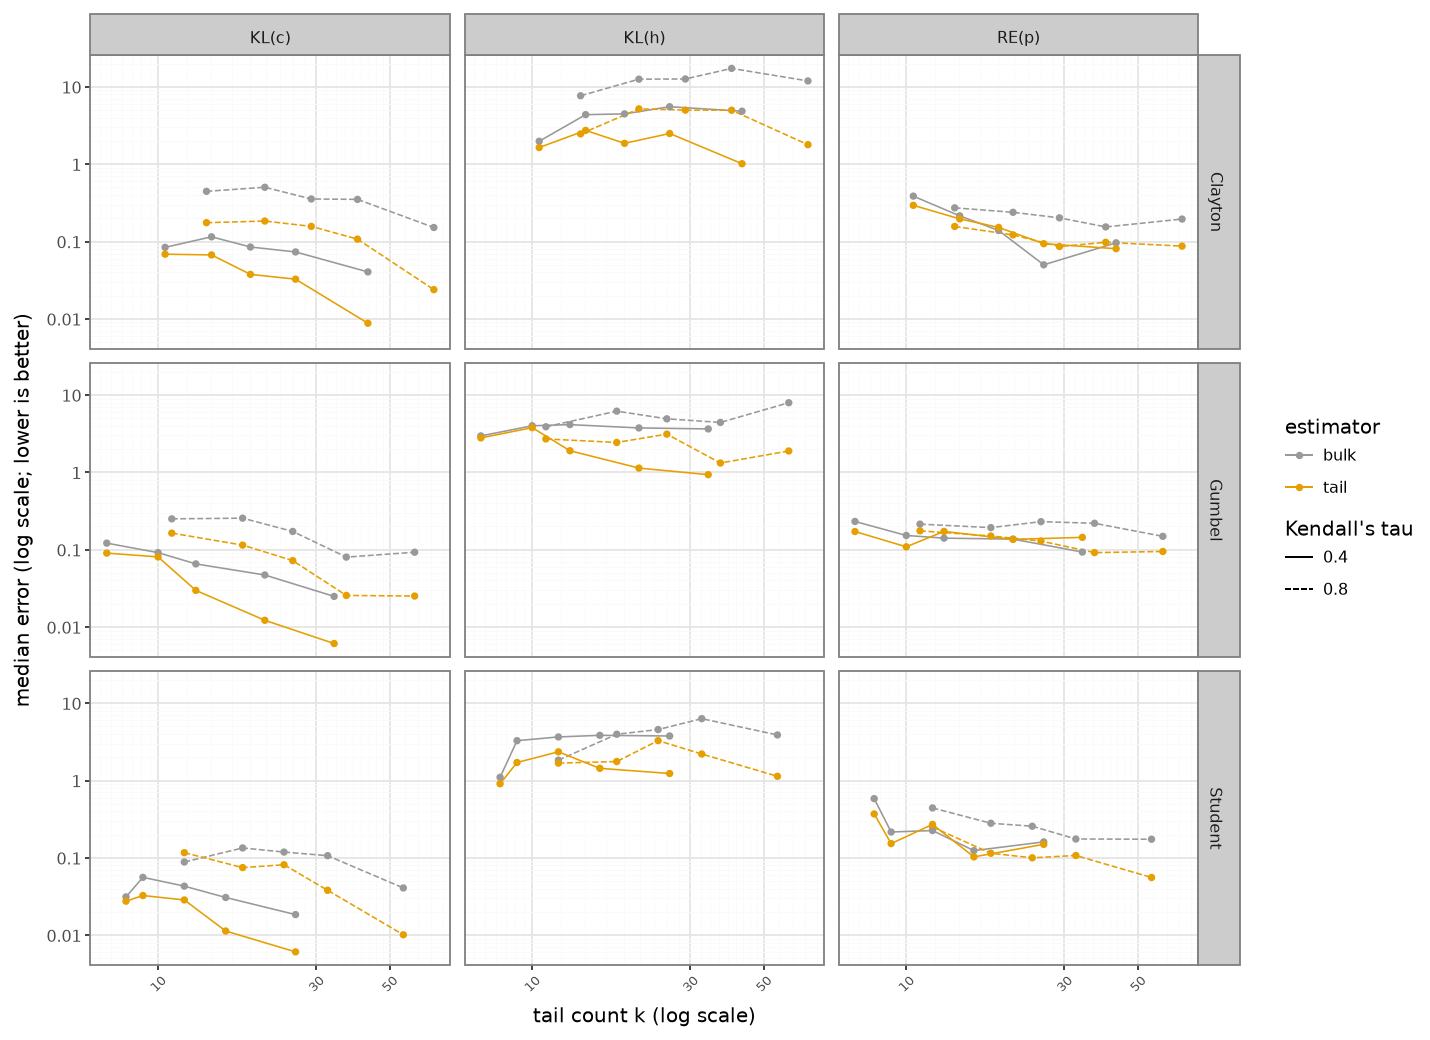
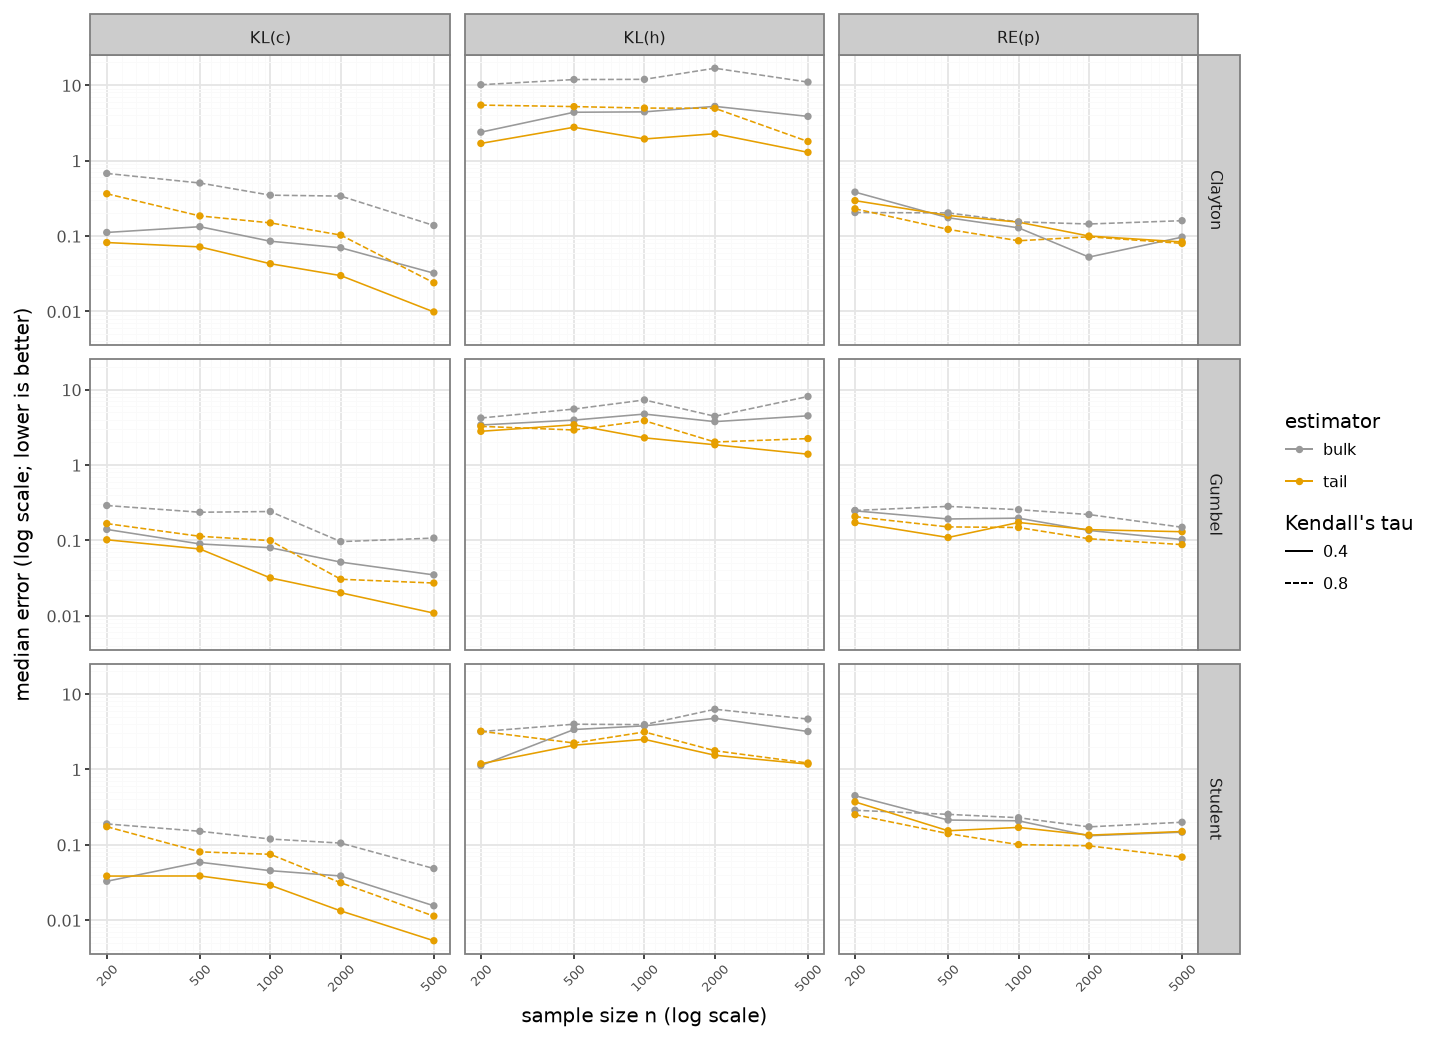
Revert figure to the n-axis; 30 replications
- examples/plot_sim_study.py: plot median error against sample size n again
  (k-framing removed); colour by estimator, line type by Kendall tau.
- examples/sim_study_biv_tail.py: 30 replications.
- latex/main.tex: figure (vs n) and prose updated; lead with the tail estimator
  beating the bulk (tail mass in 97% of cells, densities in 88%), and keep the
  explanation that improvement is slow in n because k ~ lambda*sqrt(n), so a
  k^-1/2 rate is only n^-1/4; slower-vanishing q_n left to future work.
- regenerate committed figure latex/figures/sim_study.png.

diff --git a/examples/plot_sim_study.py b/examples/plot_sim_study.py
@@ -1,11 +1,10 @@
 """Median-error line plot of the simulation-study metrics (plotnine).
 
 Reads the long-format CSV written by ``sim_study_biv_tail.py`` and draws, for the
-bulk and tail estimators, the median error of each metric against the *tail
-count* ``k`` -- the effective sample size of the tail estimator, which grows
-only like ``sqrt(n)`` under ``q_n = n^{-1/2}``. Families are the facet rows and
-metrics the facet columns; the estimator is shown by line colour and the
-dependence level (Kendall's tau) by line type. Both axes are on a log scale.
+bulk and tail estimators, the median error of each metric against the sample
+size. Families are the facet rows and metrics the facet columns; the estimator
+is shown by line colour and the dependence level (Kendall's tau) by line type,
+so all dimensions sit in one figure. Both axes are on a log scale.
 
 Run (``plotnine`` lives in the ``interactive`` extra)::
 
@@ -31,6 +30,7 @@ from plotnine import (
   theme_bw,
 )
 
+N_BREAKS: tuple[int, ...] = (200, 500, 1000, 2000, 5000)
 FAMILY_ORDER: tuple[str, ...] = ("Clayton", "Gumbel", "Student")
 METRIC_ORDER: tuple[str, ...] = ("KL(c)", "KL(h)", "RE(p)")
 # (target, metric column, display label)
@@ -47,7 +47,7 @@ def load_long(path: Path) -> pd.DataFrame:
   frames = []
   for target, column, label in _METRICS:
     part = df[df["target"] == target][
-      ["family", "tau", "n", "k", "seed", "model", column]
+      ["family", "tau", "n", "seed", "model", column]
     ].rename(columns={column: "value"})
     part["metric"] = label
     frames.append(part)
@@ -66,36 +66,23 @@ def load_long(path: Path) -> pd.DataFrame:
 
 
 def make_plot(long: pd.DataFrame) -> ggplot:
-  """Median error vs tail count k: colour by estimator, line type by tau."""
-  med = (
-    long.groupby(["family", "metric", "n", "tau", "estimator"], observed=True)[
-      "value"
-    ]
-    .median()
-    .reset_index()
-  )
-  # Effective sample size: median tail count per (family, tau, n) cell.
-  kk = (
-    long.drop_duplicates(["family", "tau", "n", "seed"])
-    .groupby(["family", "tau", "n"], observed=True)["k"]
-    .median()
-    .reset_index()
-  )
-  med = med.merge(kk, on=["family", "tau", "n"])
+  """Median error vs n: colour by estimator, line type by Kendall's tau."""
+  keys = ["family", "metric", "n", "tau", "estimator"]
+  med = long.groupby(keys, observed=True)["value"].median().reset_index()
   med["series"] = med["estimator"] + " / " + med["tau"]
   return (
     ggplot(
       med,
-      aes(x="k", y="value", color="estimator", linetype="tau", group="series"),
+      aes(x="n", y="value", color="estimator", linetype="tau", group="series"),
     )
     + geom_line()
     + geom_point(size=1.3)
     + facet_grid("family ~ metric")
-    + scale_x_log10()
+    + scale_x_log10(breaks=N_BREAKS)
     + scale_y_log10()
     + scale_color_manual(values={"bulk": "#999999", "tail": "#E69F00"})
     + labs(
-      x="tail count k (log scale)",
+      x="sample size n (log scale)",
       y="median error (log scale; lower is better)",
       color="estimator",
       linetype="Kendall's tau",

diff --git a/latex/main.tex b/latex/main.tex
@@ -157,22 +157,22 @@ We illustrate the tail estimator on simulated data, comparing it to the bulk est
 Each family is studied at the corner where its tail dependence concentrates: the lower-left corner $[0,q_n]^2$ for Clayton and for the radially symmetric Student copula, and the upper-right corner $[1-q_n,1]^2$ for Gumbel; the remaining corners follow by rotation.
 Write $L_n$ for the relevant corner block with $q_n=n^{-1/2}$.
 The tail estimator $\hat c_T$ of the previous section rescales the observations falling in $L_n$ by $1/q_n$; we also record the tail-conditional density $h$ on $[0,1]^2$ of these rescaled observations (normalised so that $\int h=1$), to which $\hat c_T$ relates by $\hat c_T=(p_n/q_n^2)\,h$ with $p_n$ the tail mass.
-We draw $n\in\{200,500,1000,2000,5000\}$ observations from the Clayton, Gumbel, and Student ($\nu=4$) copulas at Kendall's $\tau\in\{0.4,0.8\}$, with $20$ replications each; both $\hat c_B$ and $\hat c_T$ use the probit-transform local-likelihood estimator of \citet{geenens2017probit} with the constant, maximal-correlation bandwidth.
+We draw $n\in\{200,500,1000,2000,5000\}$ observations from the Clayton, Gumbel, and Student ($\nu=4$) copulas at Kendall's $\tau\in\{0.4,0.8\}$, with $30$ replications each; both $\hat c_B$ and $\hat c_T$ use the probit-transform local-likelihood estimator of \citet{geenens2017probit} with the constant, maximal-correlation bandwidth.
 On a $100\times100$ grid over the corner we report, for the copula density $c$ and the tail-conditional density $h$, the generalized Kullback--Leibler divergence (I-divergence) $\int[f\log(f/\hat f)-f+\hat f]$ between the truth $f$ and the estimate $\hat f$---the natural discrepancy when $c$ and $h$ are read as density estimators, non-negative for any non-negative $\hat f$ and reducing to the usual Kullback--Leibler divergence when both integrate to one---together with the relative error of the tail mass $p_n=\Pr\{(U,V)\in L_n\}$, estimated by $\hat p_B=\int_{L_n}\hat c_B$ for the bulk and by $\hat p_T=k/n$ for the tail, where $k=\#\{i:(U_i,V_i)\in L_n\}$.
-Because $q_n=n^{-1/2}$ shrinks with $n$, the corner holds only $k\approx\lambda\,n\,q_n=\lambda\sqrt{n}$ observations, where $\lambda$ is the tail-dependence coefficient of the relevant corner; $k$ is thus the effective sample size of the tail estimator, and we report errors against it.
-\Cref{fig:sim} shows the median of each metric over the $20$ replications as a function of $k$ (each marker is one sample size, and $k$ increases with $n$), with the estimators distinguished by colour and the dependence levels by line type.
+\Cref{fig:sim} shows the median of each metric over the $30$ replications as a function of the sample size $n$, with the estimators distinguished by colour and the dependence levels by line type.
 
-The tail estimator estimates the tail mass far more accurately and stably than the bulk estimator at every $k$, and for the densities it beats the bulk in $80\%$ of the cells at $\tau=0.4$ and $93\%$ at $\tau=0.8$, typically reducing the divergence several-fold.
-The errors decay with $k$ at the expected rates: the relative tail-mass error like $k^{-1/2}$, the binomial standard error of $\hat p_T=k/n$, and the copula-density divergence faster still, whereas the bulk estimator---which borrows strength from the whole sample with a global bandwidth---is competitive only in the data-poor regime, the smallest and weakly dependent samples.
+The tail estimator clearly outperforms the bulk: it estimates the tail mass more accurately in $97\%$ of the cells and the densities in $88\%$ (about $80$--$87\%$ at $\tau=0.4$, rising to $93\%$ at $\tau=0.8$), typically reducing the divergence several-fold, and this ordering is stable across $n$ with the largest gains at strong dependence.
+The bulk estimator, which borrows strength from the whole sample with a global bandwidth, is competitive only in the data-poor regime---the smallest and weakly dependent samples.
 
-Improvement is, however, slow in the \emph{sample size} $n$: since $k\approx\lambda\sqrt{n}$, an error decaying like $k^{-1/2}$ decays only like $n^{-1/4}$, so the gains across the range of $n$ are modest even though they are clear in $k$, and the tail-conditional density $h$ in particular barely improves over this range.
+Improvement with the sample size $n$ is, however, slow, especially for the tail-conditional density $h$.
+This is expected: because $q_n=n^{-1/2}$, the corner block holds only $k\approx\lambda\,n\,q_n=\lambda\sqrt{n}$ observations, where $\lambda$ is the tail-dependence coefficient of the relevant corner, so the effective sample size of the tail estimator grows only like $\sqrt n$; an error decaying at the usual $k^{-1/2}$ rate---for instance the binomial standard error of $\hat p_T=k/n$---is therefore only $n^{-1/4}$ in the sample size.
 A more slowly vanishing $q_n$ would enlarge $k$ and accelerate convergence in $n$, at the cost of a larger bias in the tail approximation; we leave the corresponding consistency analysis to future work.
 (Under the $L^1$ error the ordering is the same but more conservative; the squared $L^2$ error is dominated by isolated small-sample spikes and is not shown.)
 
 \begin{figure}[ht]
   \centering
   \includegraphics[width=\textwidth]{figures/sim_study.png}
-  \caption{Median error of the bulk ($\hat c_B$) and tail ($\hat c_T$) estimators against the tail count $k$, over $20$ replications, for $n\in\{200,500,1000,2000,5000\}$ at Kendall's $\tau\in\{0.4,0.8\}$: generalized Kullback--Leibler divergence of the copula density $c$ and the tail-conditional density $h$, and relative error of the tail mass $p_n$ (columns). Both axes are logarithmic and lower is better. Gumbel is evaluated at the upper-right corner, Clayton and Student at the lower-left.}
+  \caption{Median error of the bulk ($\hat c_B$) and tail ($\hat c_T$) estimators against the sample size $n\in\{200,500,1000,2000,5000\}$, over $30$ replications, at Kendall's $\tau\in\{0.4,0.8\}$: generalized Kullback--Leibler divergence of the copula density $c$ and the tail-conditional density $h$, and relative error of the tail mass $p_n$ (columns). Both axes are logarithmic and lower is better. Gumbel is evaluated at the upper-right corner, Clayton and Student at the lower-left.}
   \label{fig:sim}
 \end{figure}
 

diff --git a/examples/sim_study_biv_tail.py b/examples/sim_study_biv_tail.py
@@ -330,7 +330,7 @@ def build_parser() -> argparse.ArgumentParser:
   parser.add_argument(
     "--ns", nargs="+", type=int, default=[200, 500, 1000, 2000, 5000]
   )
-  parser.add_argument("--seeds", nargs="+", type=int, default=list(range(20)))
+  parser.add_argument("--seeds", nargs="+", type=int, default=list(range(30)))
   parser.add_argument("--nu", type=int, default=4)
   parser.add_argument("--grid-size", type=int, default=100)
   parser.add_argument("--eps", type=float, default=1e-4)